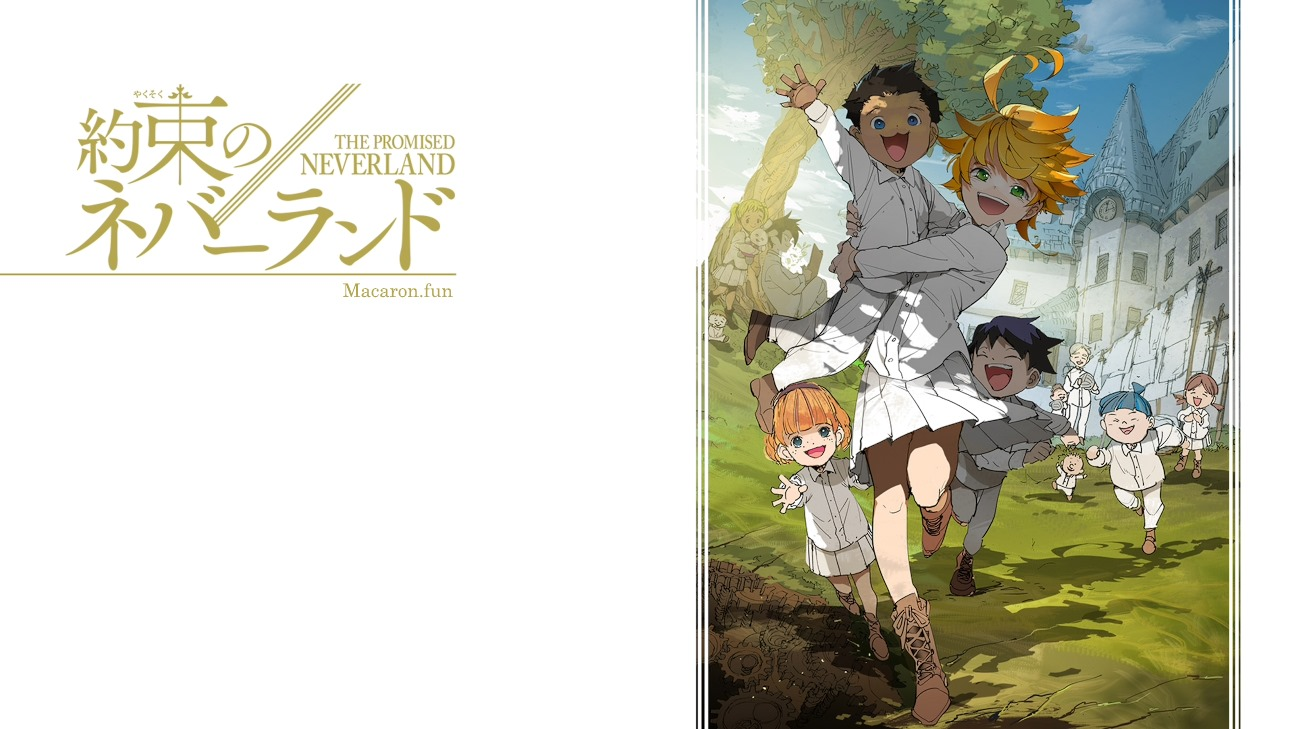
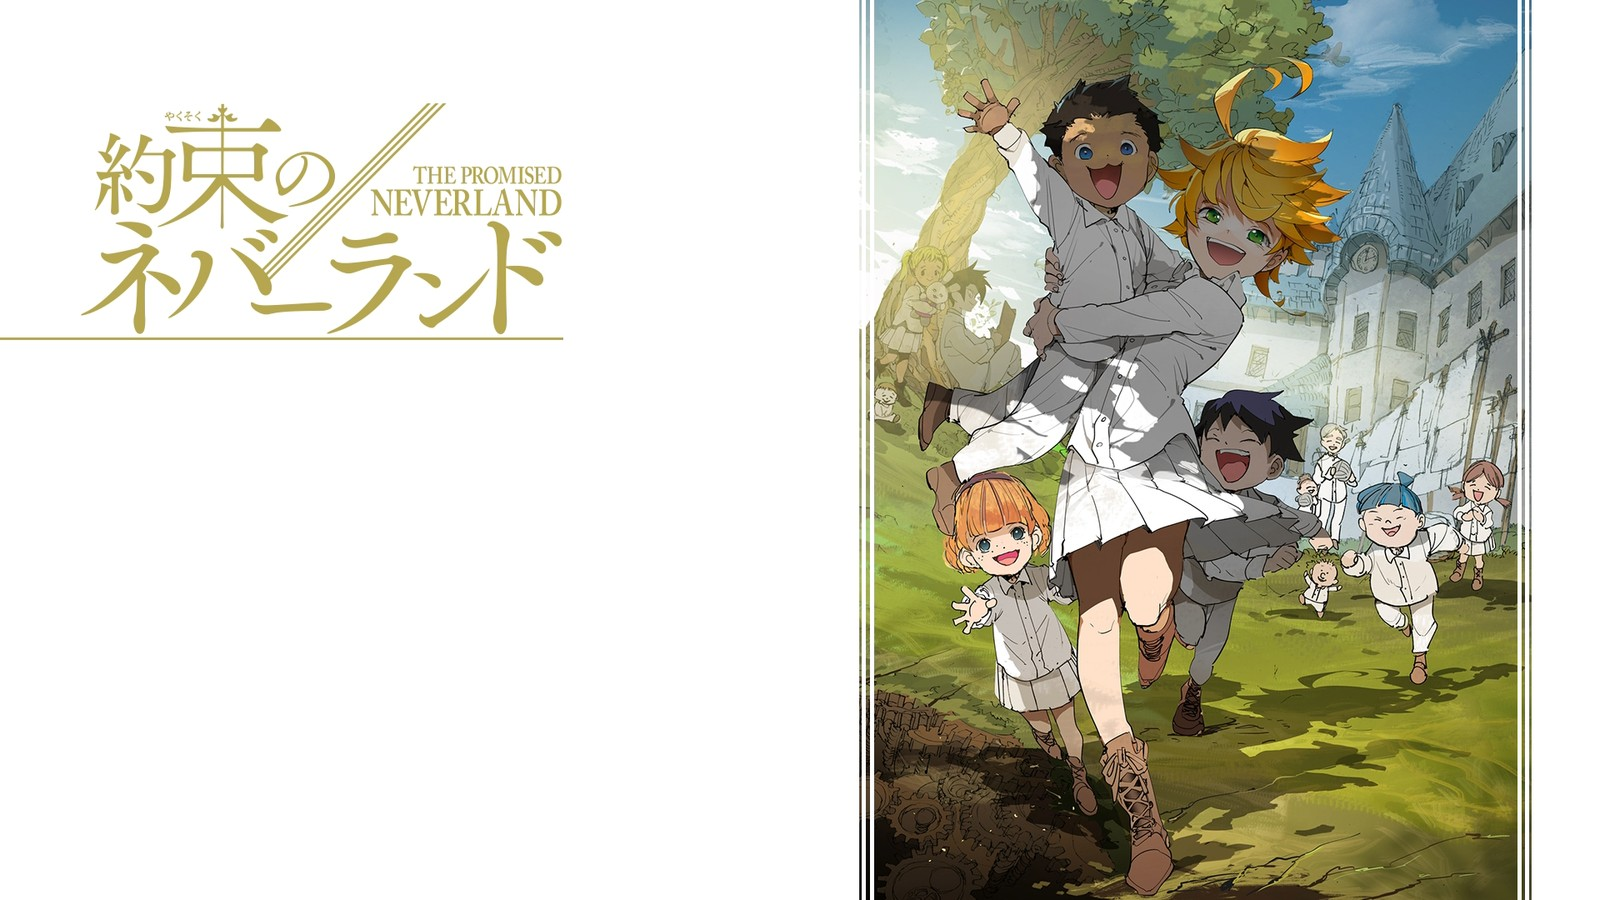
update

diff --git a/css/style.css b/css/style.css
@@ -137,9 +137,12 @@ h4 {
 	margin: 0 auto;
 	display: flex;
     flex-direction: column;
-}*/
+}
 .macaron-logo {
 	height: 85px
+}*/
+body {
+	zoom: 1.2
 }
 }
 /*hmm...*/
